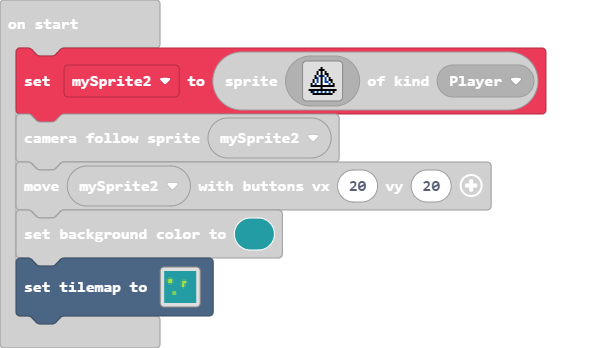
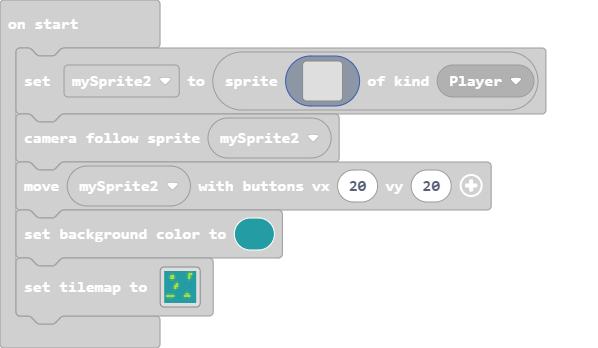
Update pxt.json, main.blocks, main.ts

Changed region(s): [[0.0, 0.1149, 0.9331, 0.3736], [0.0, 0.7184, 0.3612, 0.9483]]

diff --git a/main.ts b/main.ts
@@ -20,20 +20,20 @@ controller.right.onEvent(ControllerButtonEvent.Pressed, function () {
 let mySprite2: Sprite = null
 mySprite2 = sprites.create(img`
     . . . . . . . . . . . . . . . . 
-    . . . . . . . f . . . . . . . . 
-    . . . . . . f f f . . . . . . . 
-    . . . . . f 1 f 1 f . . . . . . 
-    . . . . . f 1 f 1 f f . . . . . 
-    . . . . f 1 8 f 8 1 f . . . . . 
-    . . . . f 8 1 f 1 8 1 f . . . . 
-    . . . f 1 8 1 f 1 8 1 f f . . . 
-    . . . f 1 8 1 f 1 8 8 1 f . . . 
-    . . f 1 8 1 1 f 1 1 1 8 1 f . . 
-    . . f f f f f f f f f f f f . . 
-    . . . . . . . f . . . . . . . . 
-    . f f f f f f f f f f f f f f . 
-    . . f 8 1 8 1 8 1 8 1 8 1 f . . 
-    . . . f f f f f f f f f f . . . 
+    . . . . . . . . . . . . . . . . 
+    . . . . . . . . . . . . . . . . 
+    . . . . . . . . . . . . . . . . 
+    . . . . . . . . . . . . . . . . 
+    . . . . . . . . . . . . . . . . 
+    . . . . . . . . . . . . . . . . 
+    . . . . . . . . . . . . . . . . 
+    . . . . . . . . . . . . . . . . 
+    . . . . . . . . . . . . . . . . 
+    . . . . . . . . . . . . . . . . 
+    . . . . . . . . . . . . . . . . 
+    . . . . . . . . . . . . . . . . 
+    . . . . . . . . . . . . . . . . 
+    . . . . . . . . . . . . . . . . 
     . . . . . . . . . . . . . . . . 
     `, SpriteKind.Player)
 scene.cameraFollowSprite(mySprite2)
